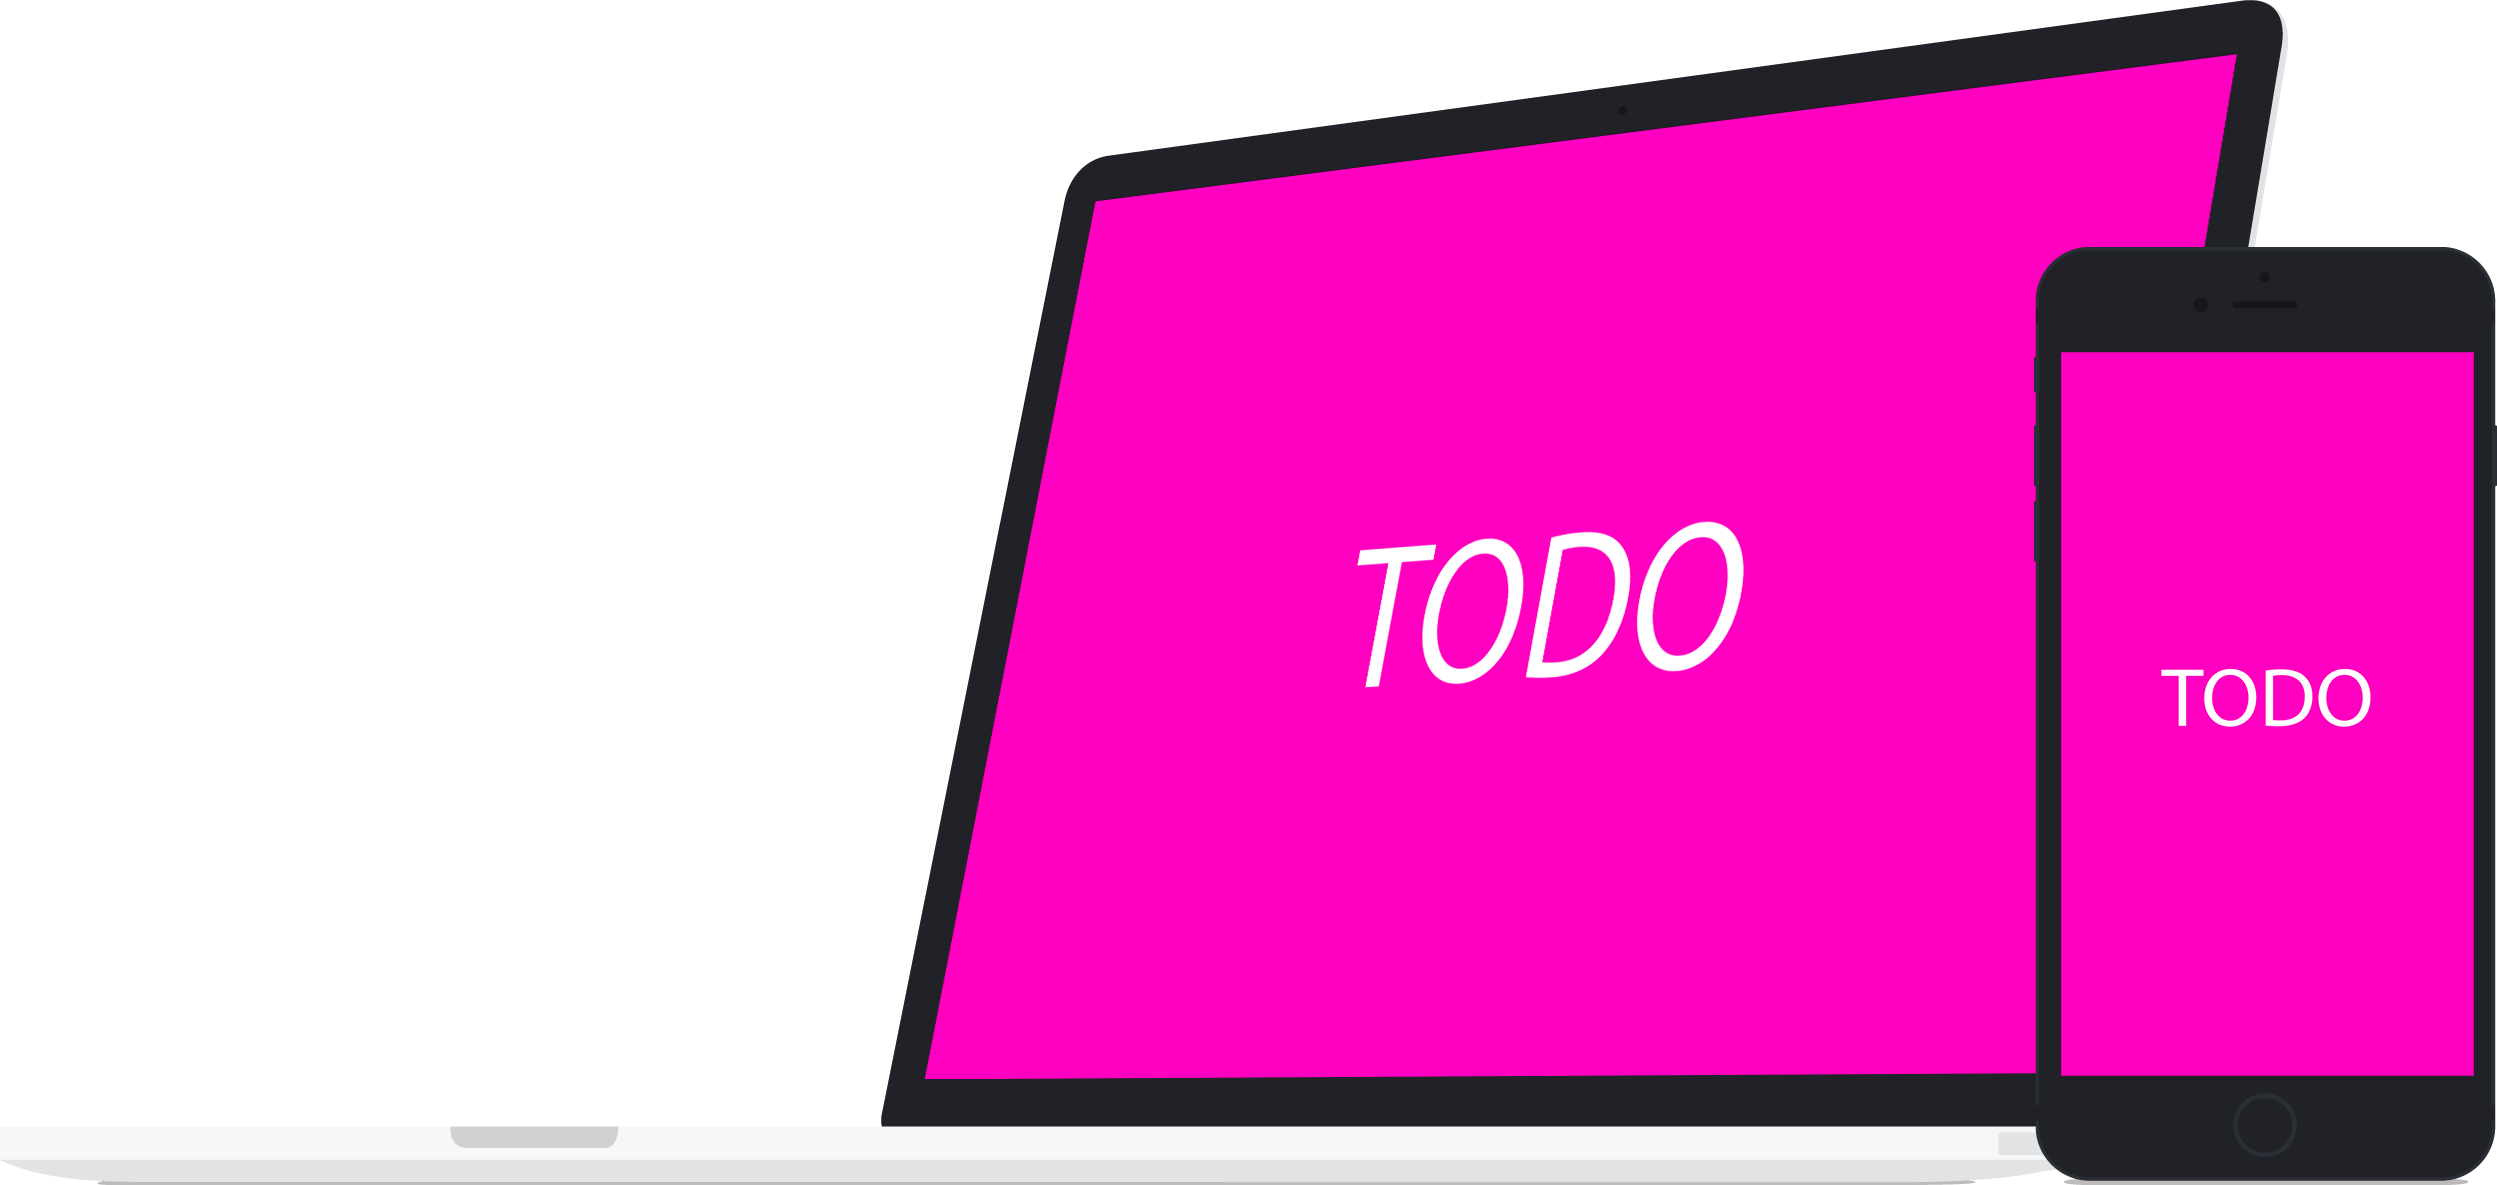
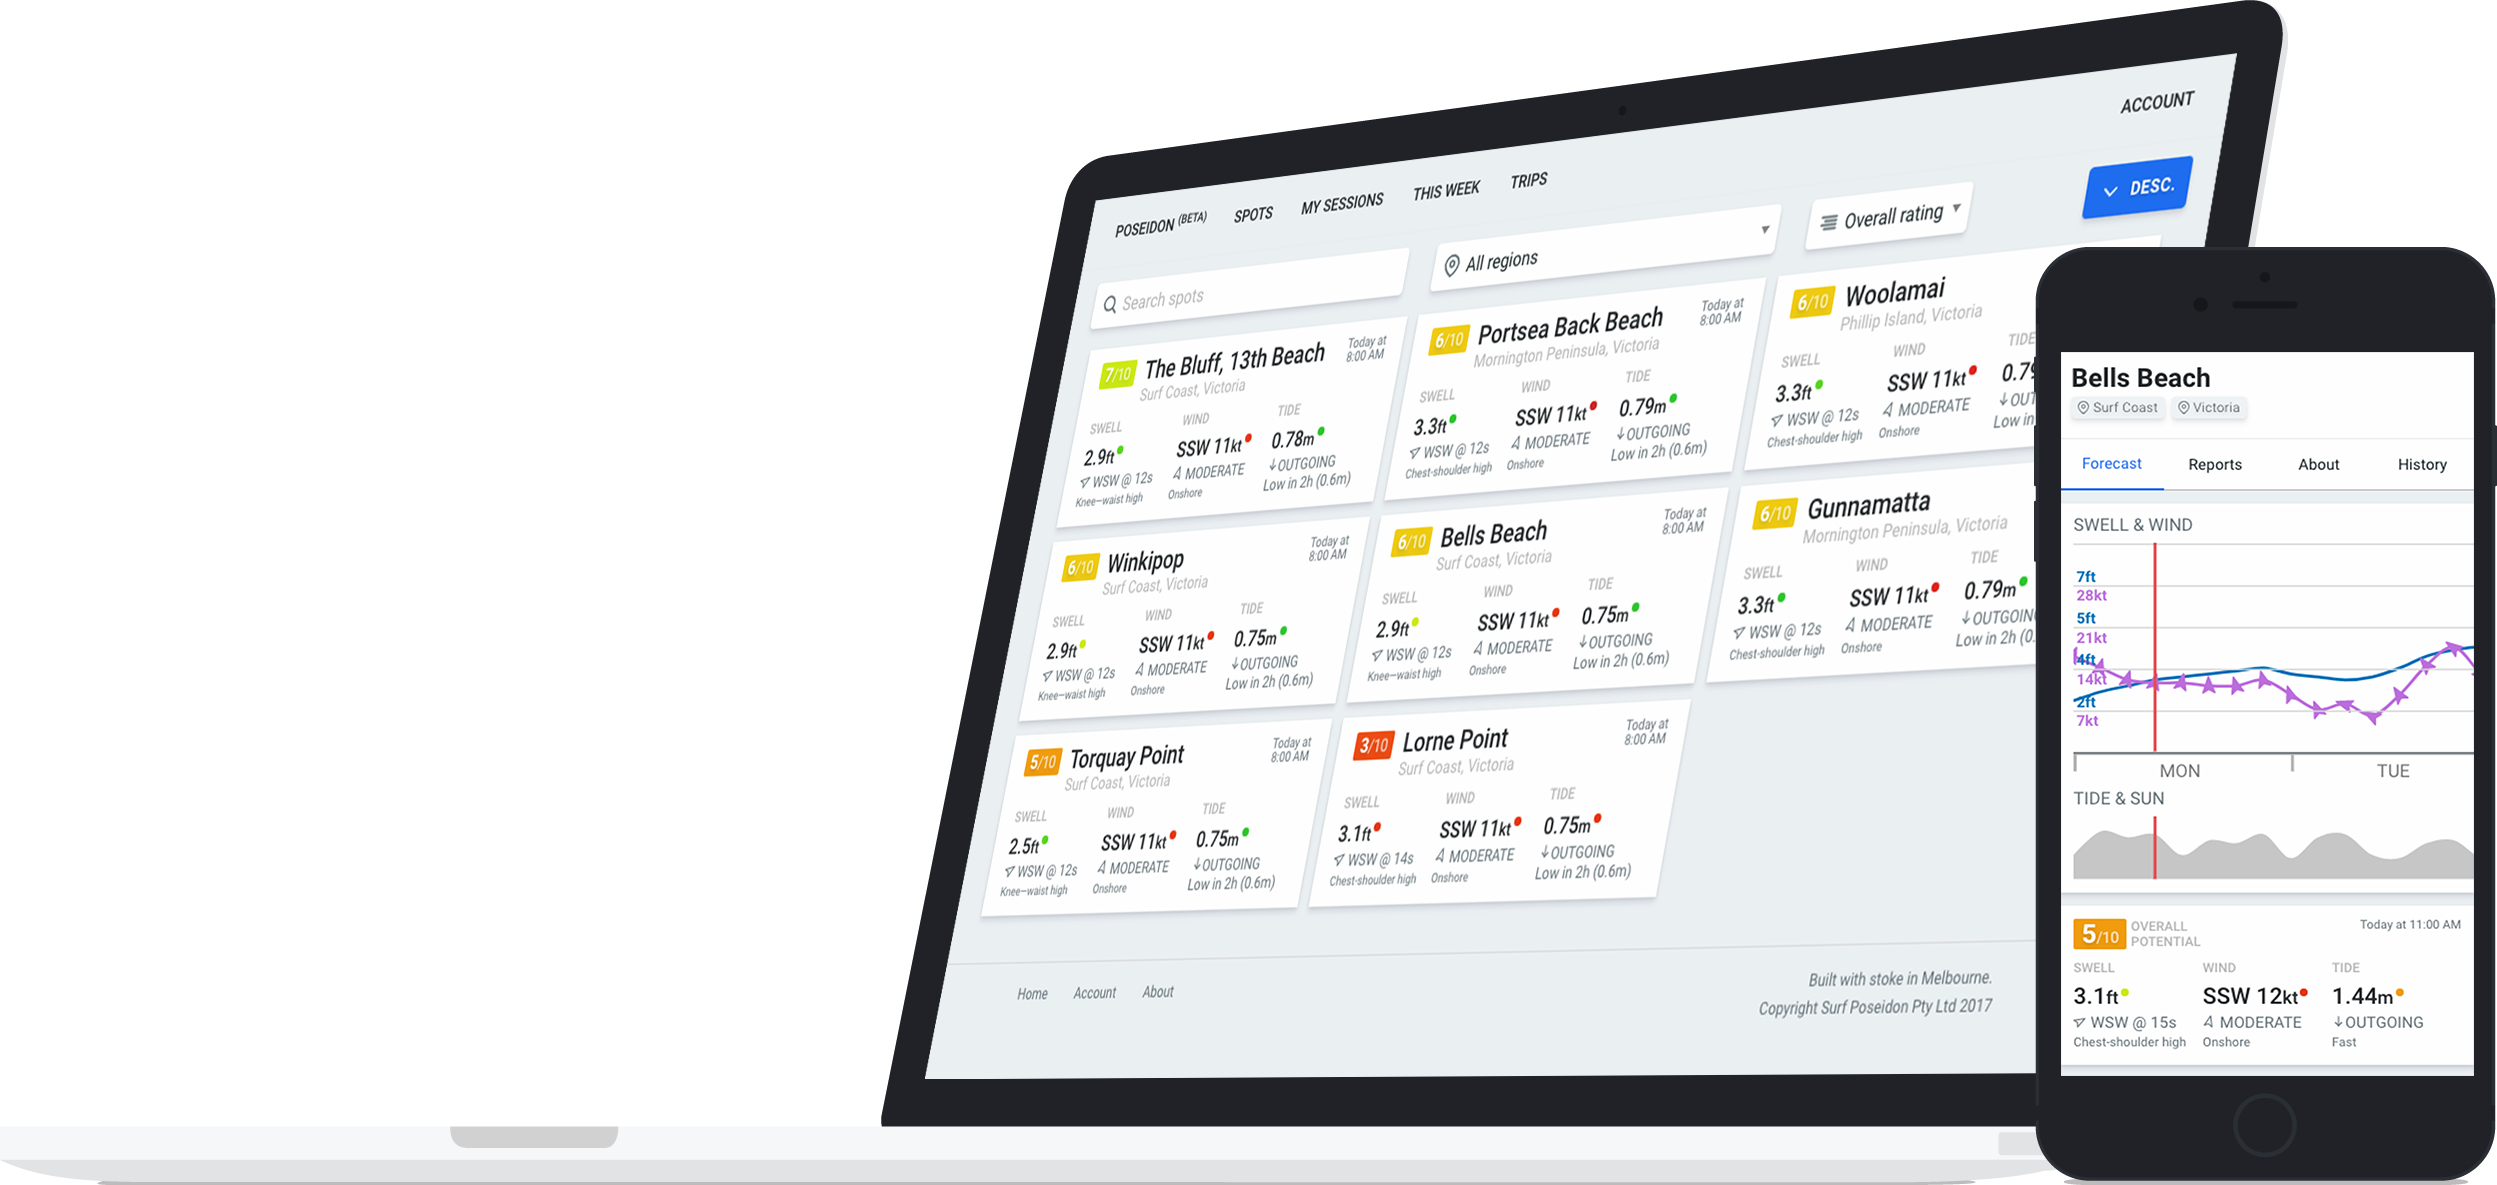
F164 Add rough-cut mockup

diff --git a/app/javascript/styles/application/pages/_marketing-page.scss b/app/javascript/styles/application/pages/_marketing-page.scss
@@ -29,23 +29,17 @@
     padding: 3rem 0 3rem 0;
   }
 
-  // .hero-image-container {
-  //   @include breakpoint(medium) {
-  //     position: absolute;
-  //     right: 0;
-  //   }
-  // }
-  //
-  // .hero-image {
-  //   @include breakpoint(medium) {
-  //     position: absolute;
-  //     right: 33px;
-  //     z-index: 0;
-  //     max-width: 50%;
-  //     height: auto;
-  //     max-height: 240px;
-  //   }
-  // }
+  .hero-image-container {
+    @include breakpoint(large) {
+    }
+  }
+
+  .hero-image {
+    @include breakpoint(large) {
+      max-width: 115%;
+      margin-left: -15%;
+    }
+  }
 
   .cvp-container {
     .cell {
